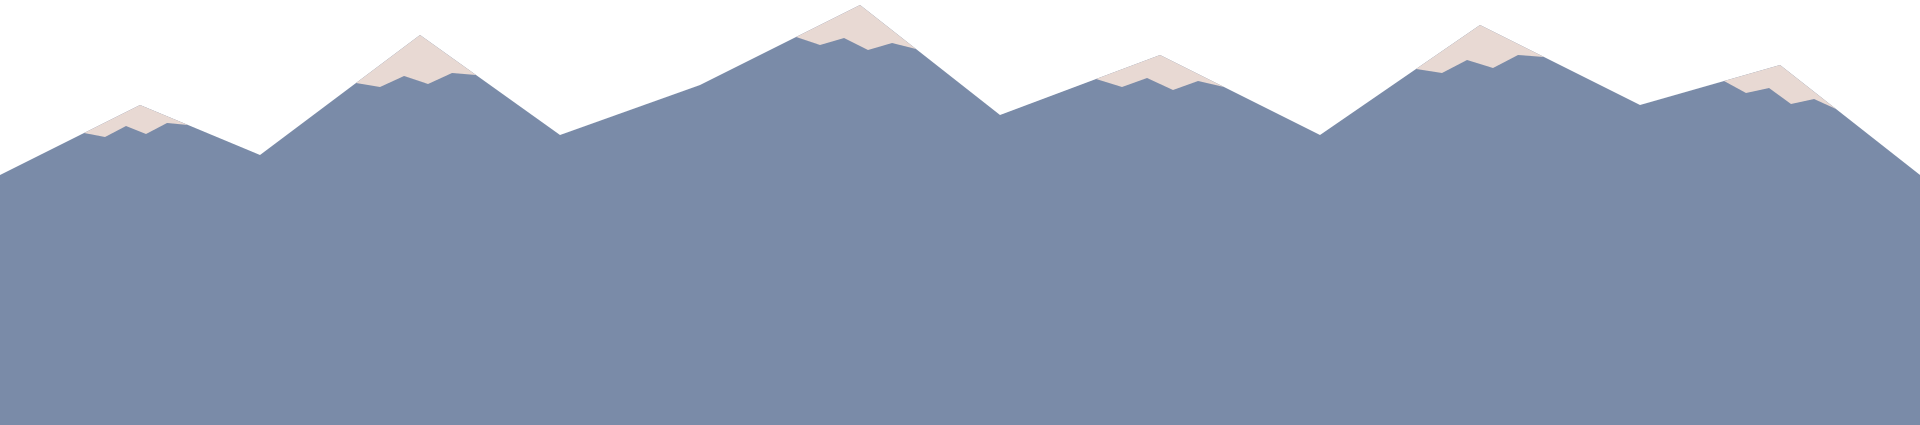
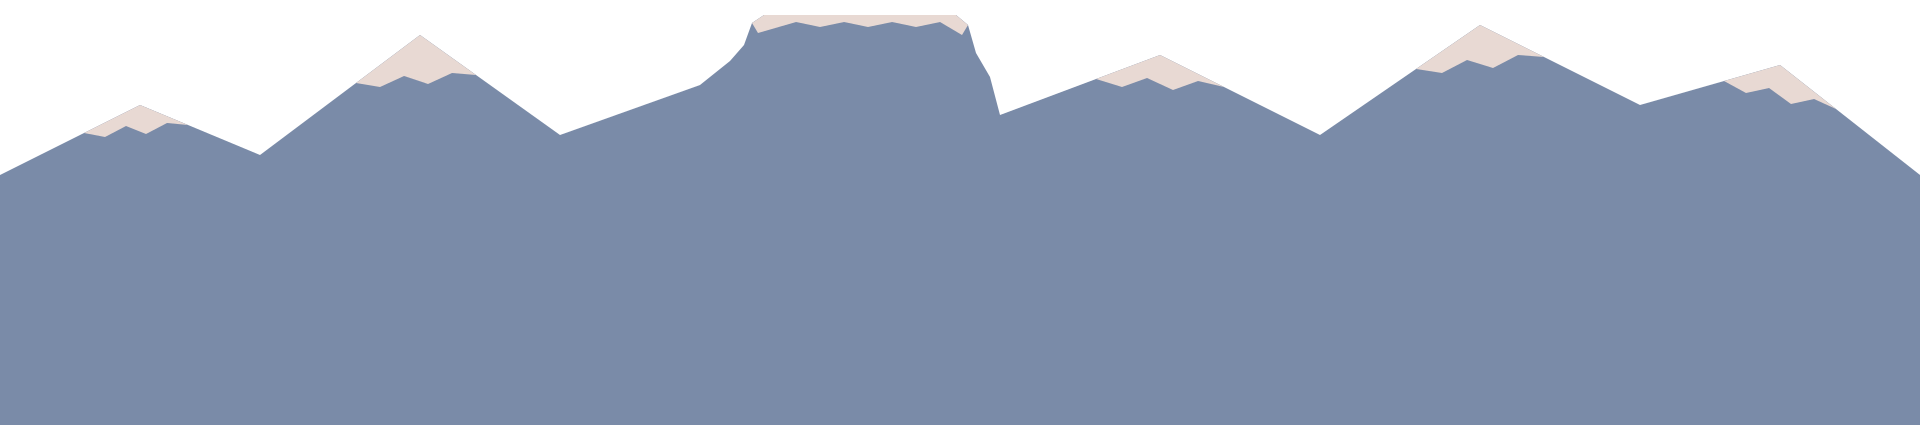
Give the center far mountain a flat top like Table Mountain
The tallest far mountain now has a long flat top with steep cliffs at
each end. In winter a band of snow covers the flat top. The README
previews and channel icons are regenerated.

Claude-Session: https://claude.ai/code/session_01F1XyeJbkdn1kDtDDVeB88k

Changed region(s): [[0.375, 0.0, 0.5312, 0.2447]]

diff --git a/tools/generate_images.py b/tools/generate_images.py
@@ -130,12 +130,22 @@ def snow_caps(points, t, fill):
         out += f'<polygon points="{px},{py} {ax:.0f},{ay:.0f} {" ".join(zig)} {bx:.0f},{by:.0f}" fill="{fill}"/>'
     return out
 
-FAR_PTS = [(0,470),(140,400),(260,450),(420,330),(560,430),(700,380),(860,300),(1000,410),(1160,350),(1320,430),(1480,320),(1640,400),(1780,360),(1920,470)]
+# The center mountain has a long flat top with steep cliffs at each end, in
+# the shape of Table Mountain in South Africa. The flat top points all have the
+# same y value, so snow_caps() does not treat them as peaks.
+TABLE_TOP = (764, 956, 310)   # left x, right x, y of the flat top
+FAR_PTS = [(0,470),(140,400),(260,450),(420,330),(560,430),(700,380),(730,356),(744,340),(752,318),
+           (TABLE_TOP[0],TABLE_TOP[2]),(TABLE_TOP[1],TABLE_TOP[2]),(968,320),(976,348),(990,372),(1000,410),
+           (1160,350),(1320,430),(1480,320),(1640,400),(1780,360),(1920,470)]
 def far(p, season):
     pts = " ".join(f"{x},{y}" for x, y in FAR_PTS)
     s = f'<polygon fill="{p["far"]}" points="0,720 {pts} 1920,720"/>'
     if season == "winter":
         s += snow_caps(FAR_PTS, 0.4, p["snow"])
+        # Snow along the flat top and down the top of each cliff
+        l, r, y = TABLE_TOP
+        zig = " ".join(f"{x},{y + (12 if i % 2 else 7)}" for i, x in enumerate(range(r - 16, l + 16, -24)))
+        s += f'<polygon points="752,318 {l},{y} {r},{y} 968,320 962,330 {zig} 758,328" fill="{p["snow"]}"/>'
     return s
 
 NEAR_PTS = [(0,560),(180,470),(320,540),(500,420),(680,560),(820,500),(960,600),(1080,520),(1260,410),(1440,540),(1600,460),(1760,520),(1920,560)]

diff --git a/AGENTS.md b/AGENTS.md
@@ -32,6 +32,7 @@ These apply to code, comments, commit messages, README.md, and this file.
 - Each layer is cropped to a horizontal band to save texture memory. The crop values in `CROPS` in the generator must match the `translation` and `height` of the matching strip in `components/MainScene.xml`.
 - Layers must overlap with no gaps. A lower layer must reach below the top edge of the layer in front of it at every x position, or the sky shows through.
 - The top of the river must start below the top edge of the hills, or it sticks up into the mountains.
+- The center far mountain is shaped like Table Mountain. All points on its flat top (`TABLE_TOP` in the generator) must have the same y value. `snow_caps()` treats any point that is higher than both of its neighbors as a peak, so an uneven top would get small snow caps instead of the flat snow band that `far()` draws in winter.
 - The sky is an 8 pixel wide gradient stretched to 1920 pixels. Keep it narrow.
 - The town crop starts at y=550 so the church cross and the courthouse clock tower fit. If anything in the town is drawn above y=550, it is cut off.
 - Store sign text is drawn with `text()` in the generator, which converts letters to shapes using the fonts in `tools/fonts`. It works with variable fonts and with fonts that have one weight. Do not use SVG `<text>` elements, because they depend on the fonts installed on the computer that runs the generator. To add a font, put the `.ttf` file and its license in `tools/fonts` and add it to `FONTS`. Only use fonts with a license that allows this, such as the SIL Open Font License. Write non-ASCII letters as Python escapes (for example, `"Luke\u2019s"`).

diff --git a/README.md b/README.md
@@ -22,7 +22,7 @@ These images are drawn by `tools/generate_images.py` from the same artwork the s
 
 ## Features
 
-- Five scenery layers that scroll at different speeds: clouds, far mountains, near mountains, hills with the river, and the town with the street.
+- Five scenery layers that scroll at different speeds: clouds, far mountains, near mountains, hills with the river, and the town with the street. The center far mountain has a flat top, in the shape of Table Mountain in South Africa.
 - The town has two sections. The first has three houses (numbered 5401, 135, and 5334), a donut shop called Long's Donuts, a book store called Forever Books, Williams Hardware, and a diner called Luke's. The last two are references to Gilmore Girls. The second has a church named New City, a gas station with a small market, and the Hill Valley Courthouse Mall from Back to the Future, with its clock stopped at 10:04.
 - A car is parked at the gas station. The car and the direction it faces are chosen at random each time the screensaver starts.
 - Each store sign uses its own font.
